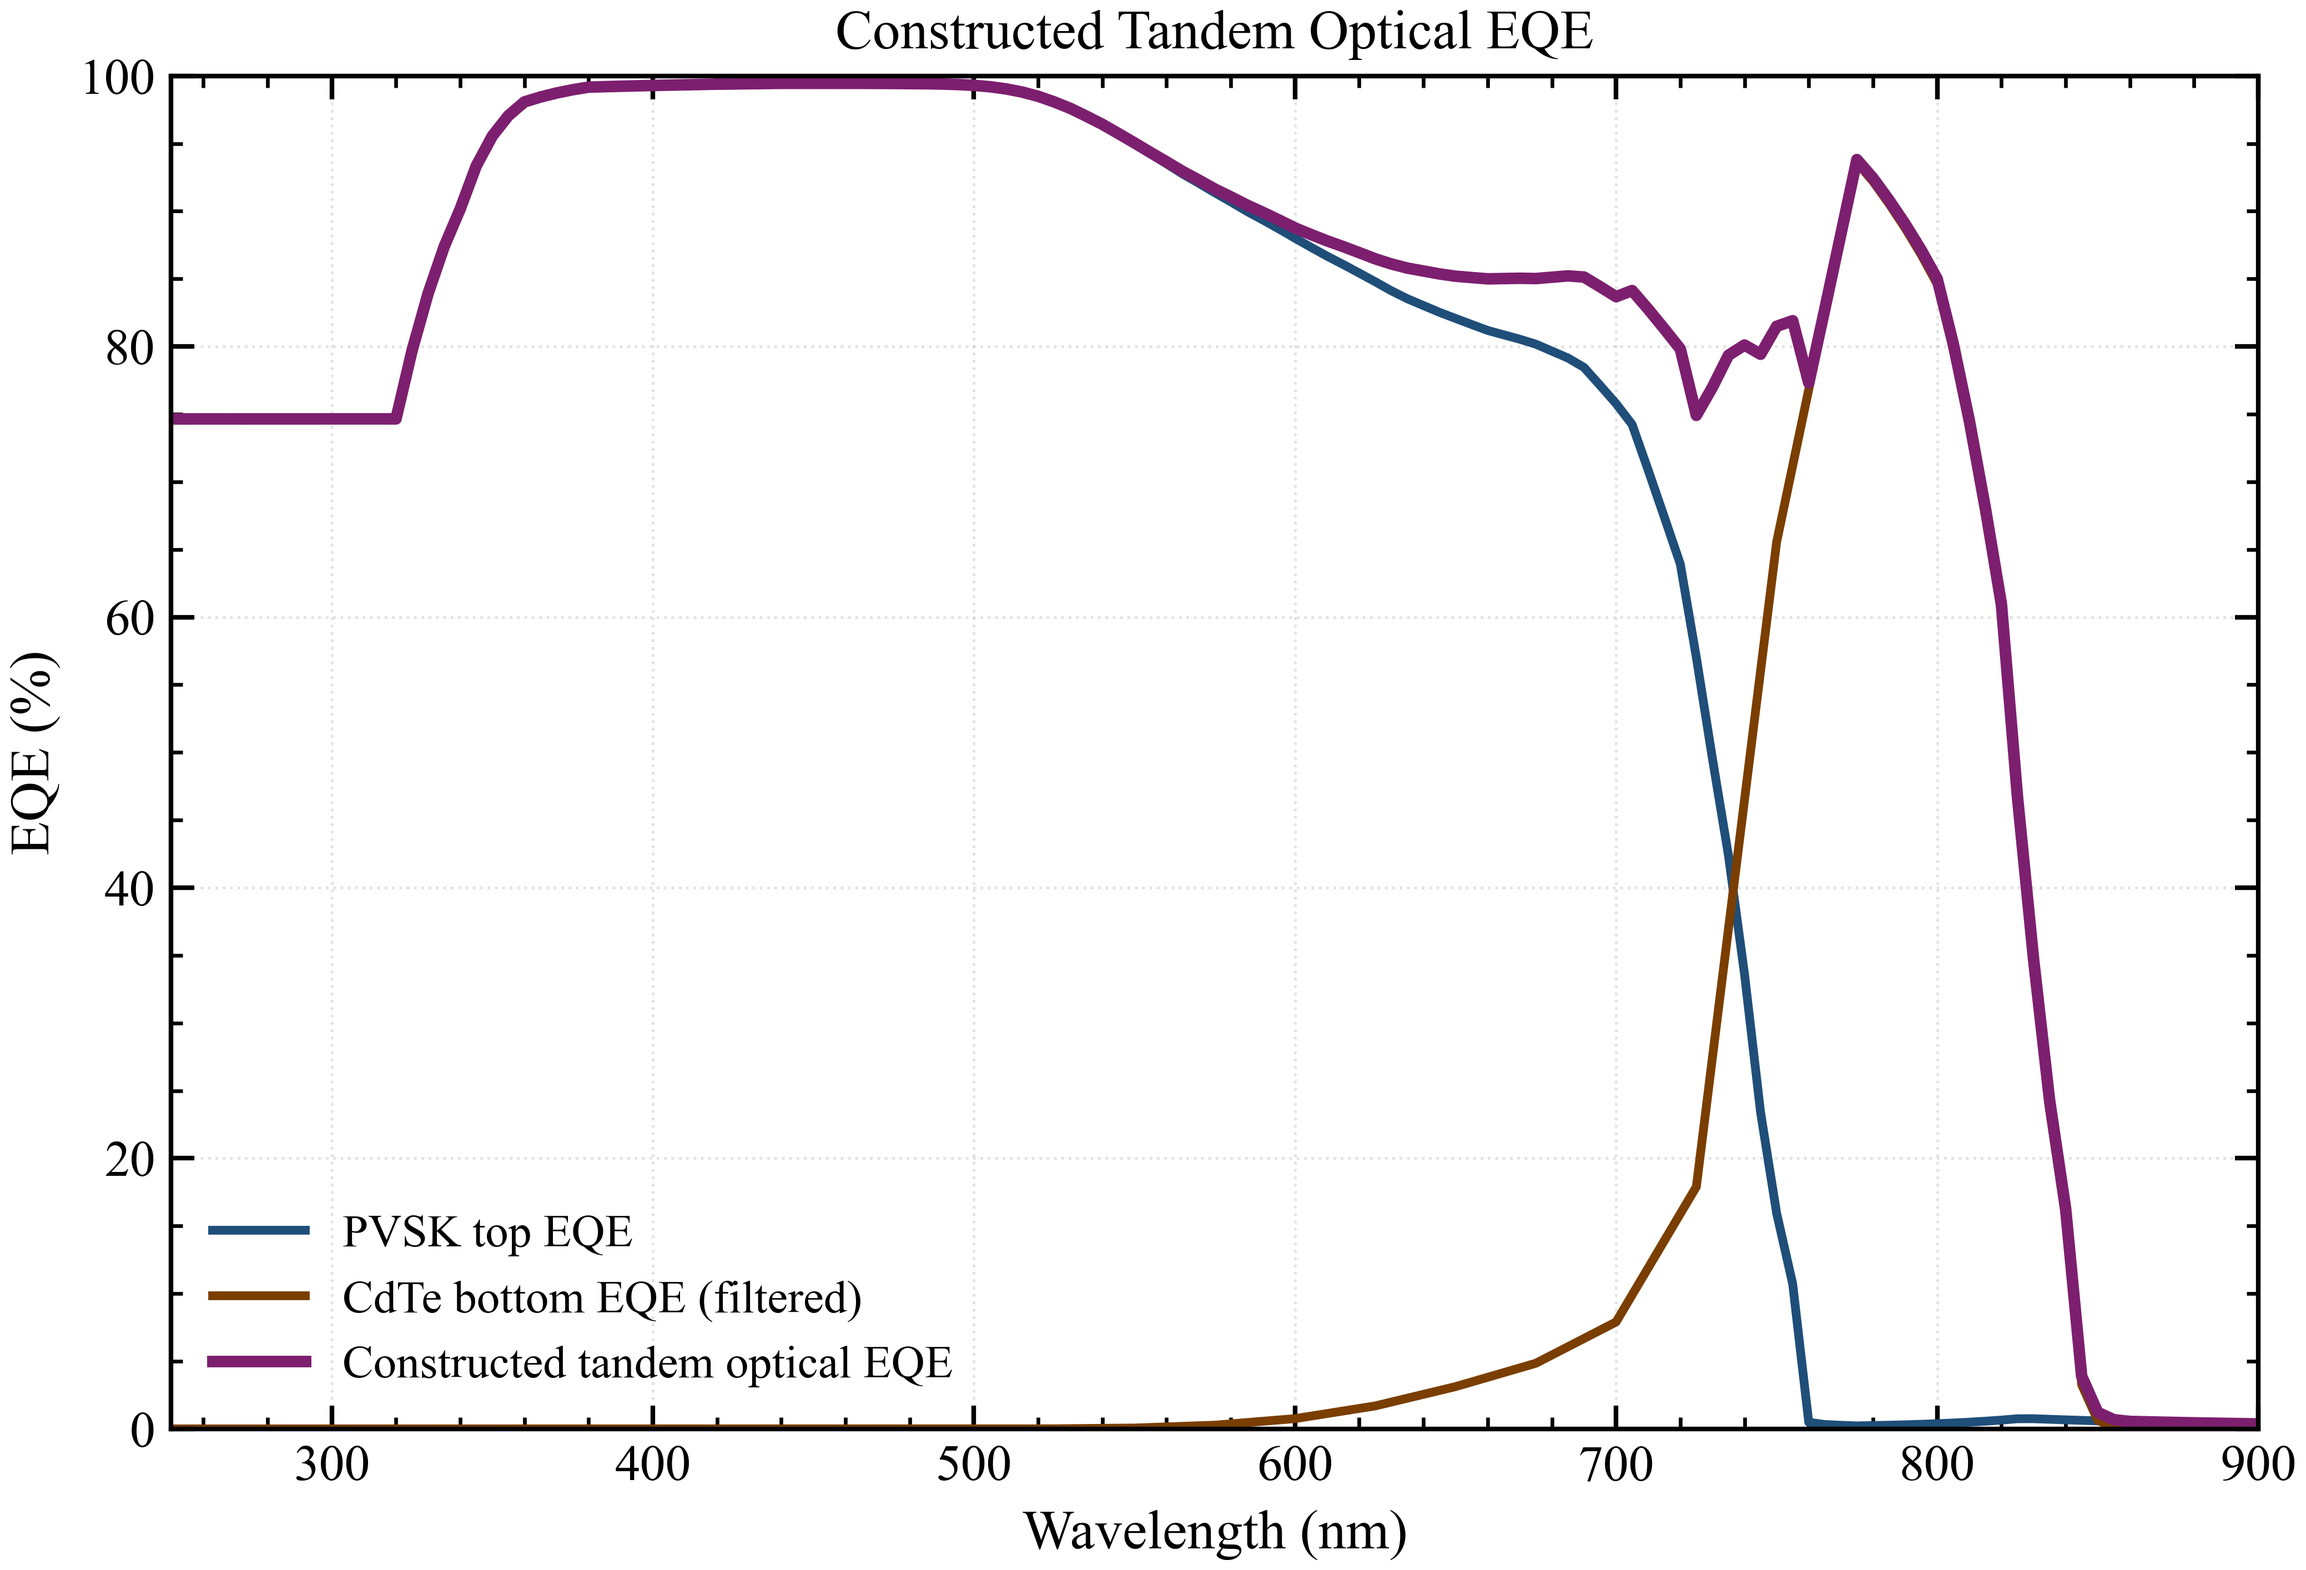
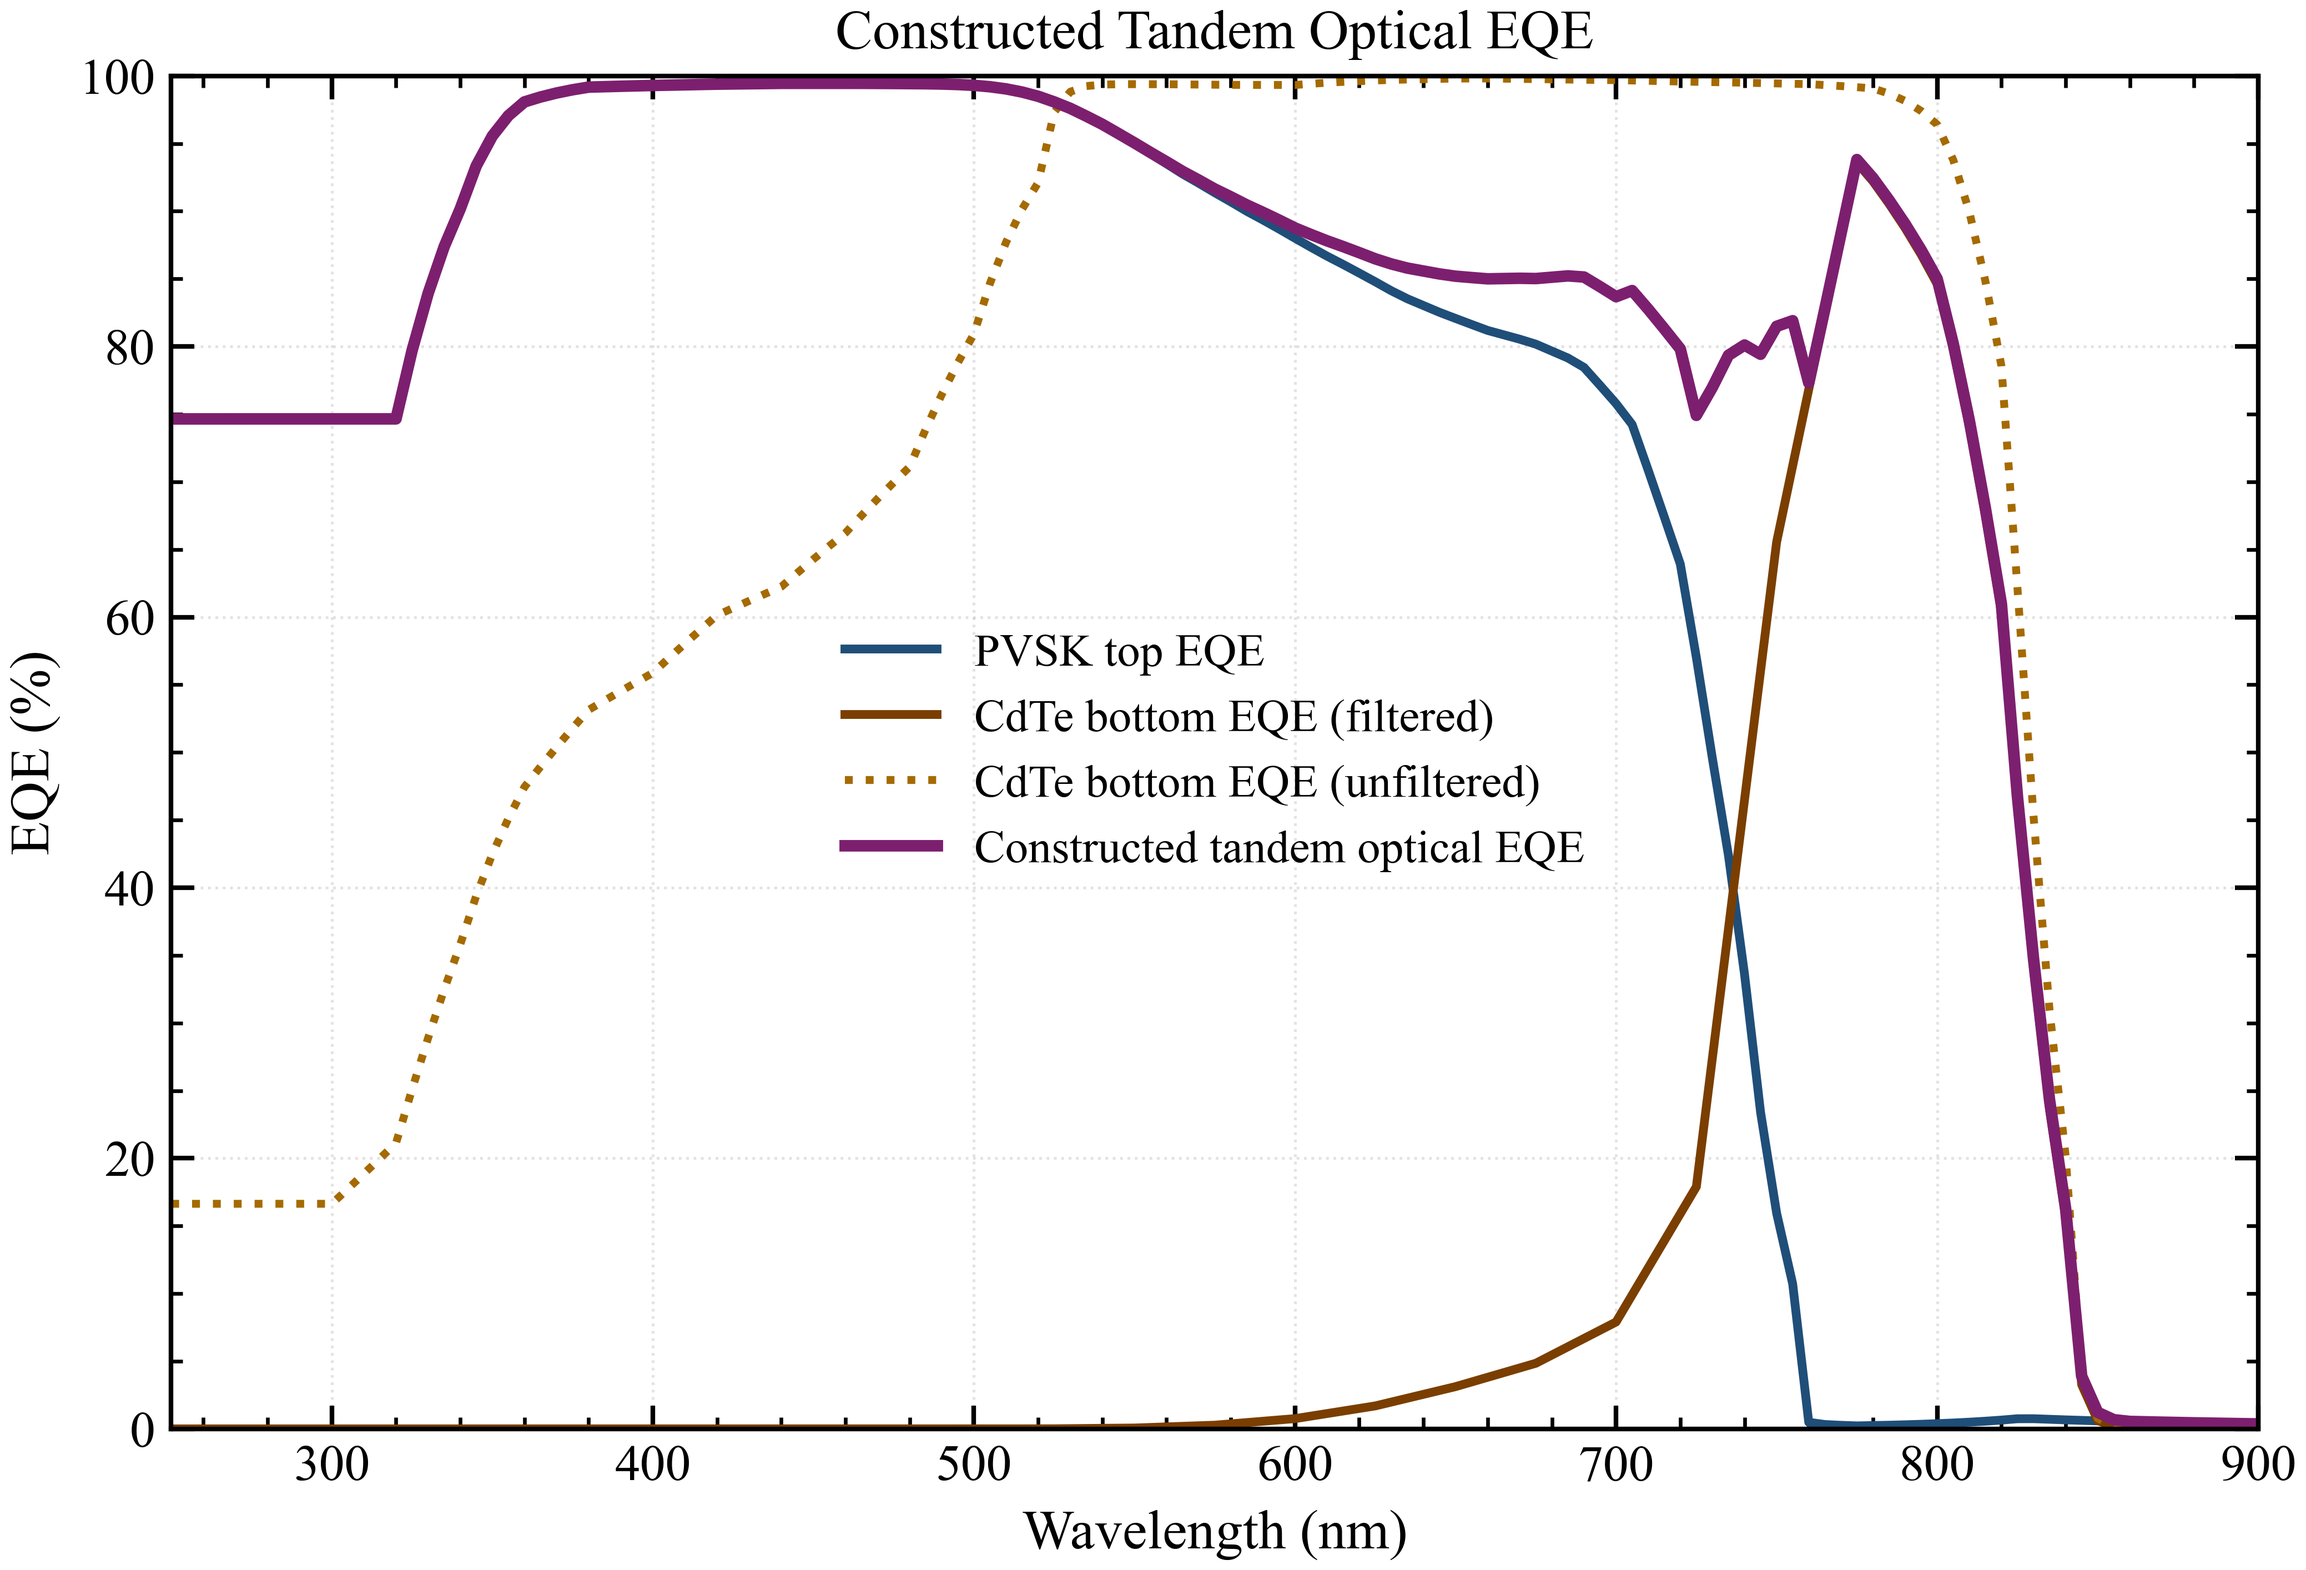
Add unfiltered CdTe EQE comparison to tandem analysis and update EQE note

Changed region(s): [[0.0932, 0.7779, 0.4037, 0.8713], [0.3727, 0.4045, 0.6521, 0.4979], [0.3727, 0.4979, 0.6832, 0.5601]]

diff --git a/tandem_analysis.py b/tandem_analysis.py
@@ -304,6 +304,11 @@ def main() -> None:
         "--cdte-qe", default="CdTe_filtered_louis.qe", help="Bottom-cell EQE file"
     )
     parser.add_argument(
+        "--cdte-unfiltered-qe",
+        default="CdTe_louis.qe",
+        help="Unfiltered CdTe EQE file for comparison plotting",
+    )
+    parser.add_argument(
         "--pin-mw-cm2",
         type=float,
         default=100.0,
@@ -340,12 +345,14 @@ def main() -> None:
     cdte_unfiltered_iv_path = Path(args.cdte_unfiltered_iv)
     pvsk_qe_path = Path(args.pvsk_qe)
     cdte_qe_path = Path(args.cdte_qe)
+    cdte_unfiltered_qe_path = Path(args.cdte_unfiltered_qe)
 
     v_top, j_top = read_scaps_two_columns(pvsk_iv_path)
     v_cdte_filtered, j_cdte_filtered = read_scaps_two_columns(cdte_filtered_iv_path)
     v_cdte_unfiltered, j_cdte_unfiltered = read_scaps_two_columns(cdte_unfiltered_iv_path)
     wl_top, eqe_top = read_scaps_two_columns(pvsk_qe_path)
     wl_bottom, eqe_bottom = read_scaps_two_columns(cdte_qe_path)
+    wl_cdte_unfiltered, eqe_cdte_unfiltered = read_scaps_two_columns(cdte_unfiltered_qe_path)
 
     metrics_top = extract_pv_metrics(v_top, j_top, args.pin_mw_cm2)
     metrics_cdte_filtered = extract_pv_metrics(v_cdte_filtered, j_cdte_filtered, args.pin_mw_cm2)
@@ -381,6 +388,12 @@ def main() -> None:
     eqe_top_plot = eqe_top_interp[eqe_mask]
     eqe_bottom_plot = eqe_bottom_interp[eqe_mask]
     eqe_tandem_plot = eqe_tandem_optical[eqe_mask]
+    wl_cdte_unfiltered_sorted, eqe_cdte_unfiltered_sorted = sort_unique(
+        wl_cdte_unfiltered, np.clip(eqe_cdte_unfiltered, 0.0, 100.0)
+    )
+    eqe_cdte_unfiltered_plot = np.interp(
+        wl_eqe_plot, wl_cdte_unfiltered_sorted, eqe_cdte_unfiltered_sorted
+    )
     if wl_eqe_plot.size < 2:
         raise ValueError(
             "Insufficient EQE points inside selected wavelength window. "
@@ -437,6 +450,14 @@ def main() -> None:
         lw=1.9,
         color="#7a3e00",
         label="CdTe bottom EQE (filtered)",
+    )
+    ax_eqe.plot(
+        wl_eqe_plot,
+        eqe_cdte_unfiltered_plot,
+        lw=1.7,
+        ls=":",
+        color="#a56a00",
+        label="CdTe bottom EQE (unfiltered)",
     )
     ax_eqe.plot(
         wl_eqe_plot,
@@ -632,9 +653,9 @@ def main() -> None:
         )
     print("")
     print(
-        "EQE note: the EQE figure shows PVSK EQE, filtered CdTe EQE, and the "
-        "constructed tandem optical response (top + filtered bottom, clipped to 100%) "
-        "in the requested wavelength window."
+        "EQE note: the EQE figure shows PVSK EQE, filtered CdTe EQE, unfiltered CdTe "
+        "EQE as a dotted comparison, and the constructed tandem optical response "
+        "(top + filtered bottom, clipped to 100%) in the requested wavelength window."
     )
     print(
         "4T note: starred 4T metrics are equivalent aggregated values from independent "
